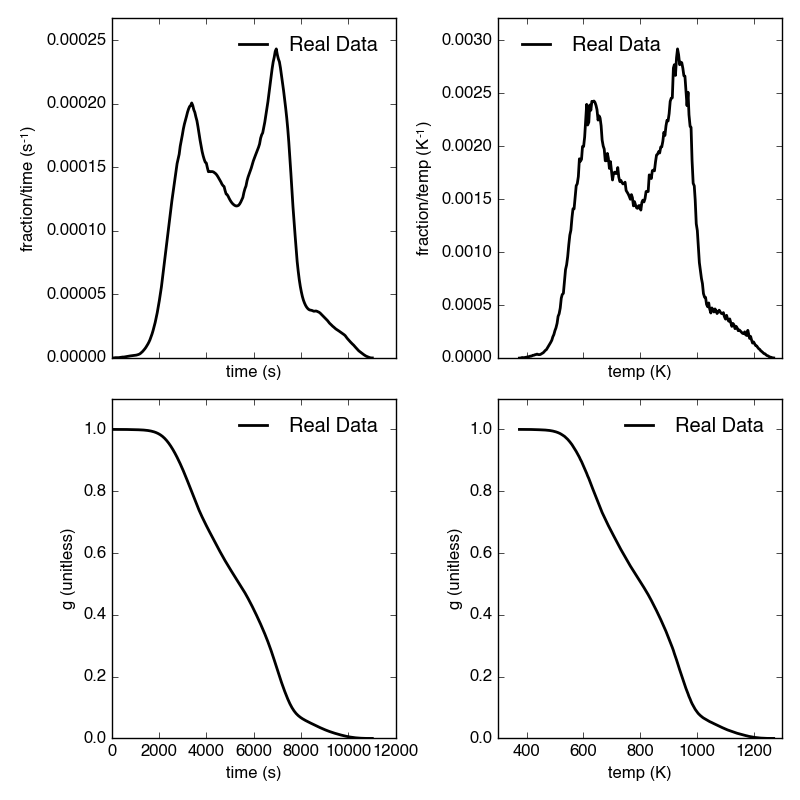
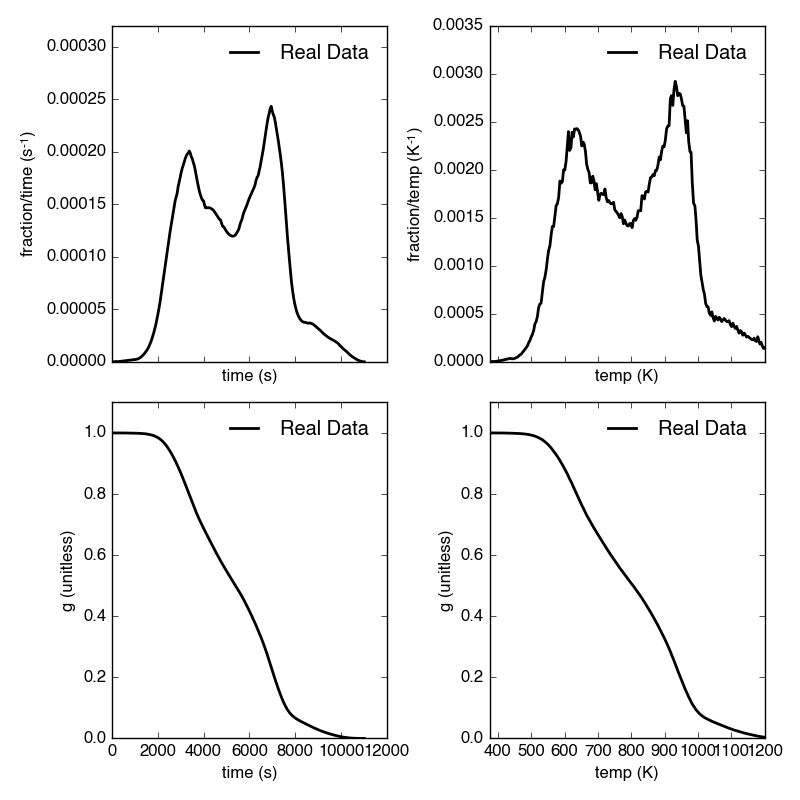
additional docstring updates

diff --git a/docs/walkthrough.rst b/docs/walkthrough.rst
@@ -126,7 +126,7 @@ Additionally, if you are new to the Python environment or programming using the 
 
 * `Spyder <https://github.com/spyder-ide/spyder>`_
 
-Python IDEs provide a "MATLAB-like" environment and package management. This option should look familiar for users coming from a MATLAB or RStudio background.
+Python IDEs provide a "MATLAB-like" environment as well as package management. This option should look familiar for users coming from a MATLAB or RStudio background.
 
 Getting data in the right format
 --------------------------------
@@ -169,7 +169,7 @@ If you are importing isotope data, this package requires that the file is in `.c
 |11:58:23 AM  |     2    | 105.81  | -29.0  |   0.1    | 0.7945 |  0.0022  |
 +-------------+----------+---------+--------+----------+--------+----------+
 
-Here, the `ug_frac` column is composed of manometrically determined masses rather than those determined by the infrared gas analyzer (IRGA, *i.e.* photometric). As such, the mass RMSE value determined by the fitting procedure (see `Determining peak isotope composition`_ below) is a metric of the discrepancy between photometric and manometric mass measurements in addition to that between the peak-fitted and true thermograms.
+Here, the `ug_frac` column is composed of manometrically determined masses rather than those determined by the infrared gas analyzer (IRGA, *i.e.* photometric). As such, the mass RMSE value determined by the fitting procedure (see `Determining component isotope composition`_ below) is a metric of the discrepancy between photometric and manometric mass measurements in addition to that between the peak-fitted and true thermograms.
 
 **Important:** The `date_time` value for fraction '-1' must be the same as the `date_time` value for the first row in the `all_data` thermogram file **and** the value for fraction '0' must the initial time when trapping for fraction 1 began.
 
@@ -180,7 +180,7 @@ Once the file is in this format, generate a string pointing to it in python like
 
 Making a TimeData instance (the Thermogram)
 -------------------------------------------
-Once the `all_data` string been defined, you are ready to import the package and generate an ``rp.RpoThermogram`` instance containing the thermogram data. ``rp.RpoThermogram`` is a subclass of ``rp.TimeData`` -- broadly speaking, this handles any object that contains measured time-series data. It is important to keep in mind that your thermogram will be down-sampled to `nt` points in order to smooth out high-frequency noise and to keep Laplace transform matrices to a manageable size for inversion (see `Generating the rate data distribution`_ below). Additionally, because the inversion model is sensitive to boundary conditions at the beginning and end of the run (see `Deconvolving rate data into peaks`_ below), there is an option when generating the thermogram instance to ensure that the baseline has been subtracted, as well as options for inputting measurement uncertainty (time data uncertainty is currently unused as of v.0.0.2)::
+Once the `all_data` string been defined, you are ready to import the package and generate an ``rp.RpoThermogram`` instance containing the thermogram data. ``rp.RpoThermogram`` is a subclass of ``rp.TimeData`` -- broadly speaking, this handles any object that contains measured time-series data. It is important to keep in mind that your thermogram will be down-sampled to `nt` points in order to smooth out high-frequency noise and to keep Laplace transform matrices to a manageable size for inversion (see `Setting-up the model`_ below). Additionally, because the inversion model is sensitive to boundary conditions at the beginning and end of the run (see `Deconvolving rate data into peaks`_ below), there is an option when generating the thermogram instance to ensure that the baseline has been subtracted, as well as options for inputting measurement uncertainty (time data uncertainty is currently unused as of v.0.0.2)::
 
 	#load modules
 	import rampedpyrox as rp
@@ -226,6 +226,10 @@ Plot the thermogram and the fraction of carbon remaining against temperature [3]
 		xaxis = 'temp',
 		yaxis = 'fraction')
 
+	#adjust the axes
+	ax[0, 0].set_ylim([0, 0.00032])
+	ax[0, 1].set_ylim([0, 0.0035])
+	ax[1, 1].set_xlim([375, 1200])
 
 	plt.tight_layout()
 
@@ -233,8 +237,8 @@ Resulting plots look like this:
 
 |realdata|
 
-Generating the rate data distribution
--------------------------------------
+Setting-up the model
+--------------------
 
 The Laplace transform
 ~~~~~~~~~~~~~~~~~~~~~
@@ -279,135 +283,139 @@ value of 0.448:
 
 |lcurve|
 
-**Important:** Best-fit `omega` values generated by the L-curve method typically under-regularize f(Ea) when used for Ramped PyrOx isotope deconvolution. That is, f(Ea) distributions will contain more peaks than can be resolved using the ~5-7 CO\ :sub:`2`\  fractions typically collected during a Ramped PyrOx run. This can be partially addressed by combining peaks when deconvolving the rate data (see `Deconvolving rate data into peaks`_ below) [9]_. 
+**Important:** Best-fit `omega` values generated by the L-curve method typically under-regularize f(Ea) when used for Ramped PyrOx isotope deconvolution. That is, f(Ea) distributions will contain more peaks than can be resolved using the ~5-7 CO\ :sub:`2`\  fractions typically collected during a Ramped PyrOx run. This can be partially addressed by combining peaks when deconvolving the rate data using the ``comine`` flag (see `Deconvolving rate data into peaks`_ below) [9]_.  Alternatively, you can increase the `omega` value (a value of ~1-5 will result in ~5-6 Gaussian peaks for most samples).
 
 
-
-peaks using the `combine_last` flag when creating an ``rp.EnergyComplex`` 
-instance (see `Generating and plotting f(Ea)`_ below), as this region 
-typically contains low isotope resolution. Alternatively, you can increase 
-`omega` (a value of ~1-5 will result in ~5-6 Gaussian peaks for most samples).
-
-
-Generating and plotting f(Ea)
-~~~~~~~~~~~~~~~~~~~~~~~~~~~~~
-After creating the ``rp.LaplaceTransform`` instance and deciding a value for 
-`omega`, you are ready to invert the thermogram data by executing the 
-``calc_EC_inv`` method from within the ``rp.LaplaceTransform`` instance. 
-Here, I'll show the results for ``omega='auto'`` as well as ``omega=3``::
-
-	#run the inverse model with omega = auto
-	phi_auto, resid_err_auto, rgh_err_auto, om_best = lt.calc_EC_inv(
-		rd, omega='auto')
-
-	#run the inverse model with omega = 3
-	phi_3, resid__err_3, rgh_err_3, _ = lt.calc_EC_inv(
-		rd, omega=3)
-
+Making a RateData instance (the inversion results)
+--------------------------------------------------
+After creating the ``rp.Daem`` instance and deciding on a value for `omega`, you are ready to invert the thermogram and generate an Activation Energy Complex (EC). An EC is a subclass of the more general ``rp.RateData`` instance which, broadly speaking, contains all rate and/or activation energy information. That is, the EC contains an estimate of the underlying Ea distribution, f(Ea), that is intrinsic to a particular sample for a particular degradation experiment type (*e.g.* combustion, pyrolysis, enzymatic degradation, etc.). A fundamental facet of this model is the realization that each distribution is composed of a sum of individual peaks, each with unique activation energies, isotope, and molecular compositions.
 
 Deconvolving rate data into peaks
----------------------------------
-The next step is to deconvolve the f(Ea) distribution into individual 
-Gaussian peaks. It is important to realize that, until now, the model has 
-made no assumptions about the shape of f(Ea) or the DAEM energy complexes 
-that it consists of. The fact that the regularized f(Ea) resembles a sum of 
-Gaussian peaks appears to be a fundamental property of complex organic carbon 
-mixtures, as has been assumed before [10]_.
+~~~~~~~~~~~~~~~~~~~~~~~~~~~~~~~~~
+The next step is to deconvolve the inverse-modeled rate data distribution into individual peaks. It is important to realize that, until now, the model has made no assumptions about the shape of f(Ea) or the individual peaks that is comprises. The fact that the regularized f(Ea) resembles a sum of Gaussian peaks appears to be a fundamental property of complex organic carbon mixtures, as has been discussed before [10]_. 
 
-Generate an ``rp.EnergyComplex`` instance to perform the Gaussian 
-deconvolution and plot results. Here, I'll let ``nPeaks='auto'`` and 
-``thres=0.02`` to allow the model to automatically select peaks above 2\% of 
-the height of the tallest peak. Additionally I'll combine the last 2 peaks 
-and set ``DEa=0.0018`` (see `Kinetic Isotope Effect (KIE)`_ below for further 
-discussion on `DEa` [9]_)::
+Generating the ``up.EnergyComplex`` instance using the inverse model will automatically deconvolve f(Ea) into a sum of peaks. Here we can add user-inputted information for performing the deconvolution: 
 
-	#deconvolving phi generated with omega = auto
-	ec_auto = rp.EnergyComplex(eps, phi_auto,
-		nPeaks='auto',
-		thres=0.02,
-		combine_last=2,
-		DEa=0.0018)
+* the ``omega`` value used for regulariation (see `Regularizing the inversion`_ above).
 
-	#deconvolving phi generated with omega = 3
-	ec_3 = rp.EnergyComplex(eps, phi_3,
-		nPeaks='auto',
-		thres=0.02,
-		combine_last=2,
-		DEa=0.0018)
+* the shape of the underlying peaks, ``peak_shape`` (only 'Gaussian' is supported as of v.0.0.2).
 
-Plot the resulting deconvolved f(Ea)::
+* the number of peaks to retain by the model (``nPeaks``), either as an integer or 'auto'. Peaks are automatically detected according to the curvature of f(Ea) -- each unique concave-down region is assumed to contain a single peak. Peaks below the relative threshold cutoff, ``thres``, are ignored (*e.g.* for the below example, anything below 2% of the largest peak). A higher value of `omega` will lead to less detectable peaks.
+
+* which, if any, peaks to combine (``combined``). Sometimes the maximum number of peaks whose unique isotope composition can be determined is limited due to low sample resolution (see `Determining component isotope composition`_ below). Typically, this occurs when two or more peaks reside exclusively within a single isotope measurement region. (*e.g.* for the below example, the pairs 1 & 2 and 6 & 7 are combined) [9]_.
+
+Here I create two energy complexes, one with `omega` set to 'auto' and the other with `omega` set to 3, and perform the deconvolution by inverse modeling the above thermogram::
+
+	ec_auto = rp.EnergyComplex.inverse_model(
+		daem, 
+		tg,
+		combined = None,
+		nPeaks = 'auto',
+		omega = 'auto',
+		peak_shape = 'Gaussian',
+		thres = 0.02)
+
+	ec_3 = rp.EnergyComplex.inverse_model(
+		daem, 
+		tg,
+		combined = [(1,2), (6, 7)],
+		nPeaks = 'auto',
+		omega = 3,
+		peak_shape = 'Gaussian',
+		thres = 0.02)
+
+Plot the resulting deconvolved energy complex::
 
 	#make a figure
-	fig,ax = plt.subplots(1, 2, sharey = True)
+	fig,ax = plt.subplots(1, 2, 
+		figsize = (8,5),
+		sharey = True)
 
 	#plot results
-	ax[0] = ec_auto.plot(ax=ax[0])
-	ax[1] = ec_3.plot(ax=ax[1])
+	ax[0] = ec_auto.plot(ax = ax[0])
+	ax[1] = ec_3.plot(ax = ax[1])
 
 	ax[0].set_title("omega = 'auto'")
 	ax[1].set_title("omega = 3")
+
+	ax[0].set_ylim([0, 0.022])
 	plt.tight_layout()
 
 Resulting plots are shown side-by-side:
 
 |phis|
 
-Note that the number of 'Individual Fitted Gaussians' reported in the legend 
-is before the ``combine_last`` flag has been implemented. The last 2 peaks 
-are combined in the plot.
+Note that the number of peaks reported in the legend is before the ``combined`` flag has been implemented. The first and last 2 peaks are dhown combined in the `omega = 3` plot.
 
-A summary of the Gaussian peaks can be printed with the ``summary`` method::
+A summary of the peaks can be printed with the ``peak_info`` attribute and saved to a `.csv` file::
 
-	ec_3.summary()
+	ec_3.peak_info
+	ec_3.peak_info.to_csv('EC_peak_info_file.csv')
 
-Which will print a table similar to:
+This will print a table similar to:
 
-+------------------------------------------------------------+
-|Peak information for each deconvolved peak:                 |
-+============================================================+
-|NOTE: Combined peaks are reported separately in this table! |
-+-----+-------------+---------------+----------+-------------+
-|     | means (kJ)  |  stdev. (kJ)  |  height  |  rel. area  |
-+-----+-------------+---------------+----------+-------------+
-|  1  |  136.205501 |   8.575766    | 0.004625 |  0.099750   |
-+-----+-------------+---------------+----------+-------------+
-|  2  |  152.302553 |   7.628098    | 0.009002 |  0.172695   |
-+-----+-------------+---------------+----------+-------------+
-|  3  |  174.969866 |   10.273746   | 0.007160 |  0.184946   |
-+-----+-------------+---------------+----------+-------------+
-|  4  |  203.113455 |   9.232788    | 0.006471 |  0.150222   |
-+-----+-------------+---------------+----------+-------------+
-|  5  |  228.741877 |   8.167253    | 0.015281 |  0.313914   |
-+-----+-------------+---------------+----------+-------------+
-|  6  |  261.304757 |   6.178408    | 0.002498 |  0.038820   |
-+-----+-------------+---------------+----------+-------------+
-|  7  |  284.249535 |   11.393354   | 0.001384 |  0.039653   |
-+-----+-------------+---------------+----------+-------------+
-| Deconvolution RMSE = 4.59 x 10^-6                          |
-+------------------------------------------------------------+
++-------------------------------------------------------------+
+|Information for each deconvolved peak:                       |
++=====+=============+================+==========+=============+
+|     | mu (kJ/mol) | sigma (kJ/mol) |  height  |  rel. area  |
++-----+-------------+----------------+----------+-------------+
+|  1  |  134.36     |   7.75         | 3.87e-3  |  0.08       |
++-----+-------------+----------------+----------+-------------+
+|  2  |  151.81     |   8.62         | 9.95e-3  |  0.21       |
++-----+-------------+----------------+----------+-------------+
+|  3  |  175.25     |   9.46         | 6.99e-3  |  0.17       |
++-----+-------------+----------------+----------+-------------+
+|  4  |  202.60     |   9.96         | 6.43e-3  |  0.16       |
++-----+-------------+----------------+----------+-------------+
+|  5  |  228.73     |   8.29         | 1.54e-3  |  0.32       |
++-----+-------------+----------------+----------+-------------+
+|  6  |  262.32     |   6.18         | 2.41e-3  |  0.04       |
++-----+-------------+----------------+----------+-------------+
+|  7  |  282.85     |   7.89         | 1.32e-3  |  0.03       |
++-----+-------------+----------------+----------+-------------+
 
-Forward modeling estimated thermogram
-~~~~~~~~~~~~~~~~~~~~~~~~~~~~~~~~~~~~~
-Once the ``rp.EnergyComplex`` instance has been created, you can use the 
-``calc_TG_fwd`` method to forward model the estimated thermogram and store in 
-an ``rp.ModeledData`` instance. Here, I'll forward model the results from the 
-``omega = 3`` energy complex::
+Additionally, the deconvolution RMSE can be printed as a metric of the quality of the fit::
 
-	md = lt.calc_TG_fwd(ec_3)
+	print(ec_3.rmse)
 
-Similar to ``rp.RealData``, you can plot this thermogram against temperature 
-[3]_ or time, and can even overlay the true thermogram::
+Forward modeling the estimated thermogram
+~~~~~~~~~~~~~~~~~~~~~~~~~~~~~~~~~~~~~~~~~
+Once the ``rp.EnergyComplex`` instance has been created, you can forward-model the predicted thermogram and compare with measured data using the ``forward_model`` method of any ``rp.TimeData`` instance. Here, I'll forward model the results from the `omega = 3` energy complex::
 
+	tg.forward_model(daem, ec_3)
+
+The thermogram is now updated with modeled data and can be plotted::
+	
 	#make a figure
-	fig,ax = plt.subplots(1,2)
+	fig, ax = plt.subplots(2, 2, 
+		figsize = (8,8), 
+		sharex = 'col')
 
-	#plot modeled results
-	ax[0] = md.plot(ax=ax[0], xaxis='time')
-	ax[1] = md.plot(ax=ax[1], xaxis='temp')
+	#plot results
+	ax[0, 0] = tg.plot(
+		ax = ax[0, 0], 
+		xaxis = 'time',
+		yaxis = 'rate')
 
-	#overlay true thermogram
-	ax[0] = rd.plot(ax=ax[0], xaxis='time')
-	ax[1] = rd.plot(ax=ax[1], xaxis='temp')
+	ax[0, 1] = tg.plot(
+		ax = ax[0, 1], 
+		xaxis = 'temp',
+		yaxis = 'rate')
+
+	ax[1, 0] = tg.plot(
+		ax = ax[1, 0], 
+		xaxis = 'time',
+		yaxis = 'fraction')
+
+	ax[1, 1] = tg.plot(
+		ax = ax[1, 1], 
+		xaxis = 'temp',
+		yaxis = 'fraction')
+
+	#adjust the axes
+	ax[0, 0].set_ylim([0, 0.00032])
+	ax[0, 1].set_ylim([0, 0.0035])
+	ax[1, 1].set_xlim([375, 1200])
 
 	plt.tight_layout()
 
@@ -415,35 +423,38 @@ Resulting plot looks like this:
 
 |modeleddata|
 
-Similar to ``rp.EnergyComplex``, you can print a summary of the 
-``rp.ModeledData`` instance::
+Similar to ``rp.EnergyComplex``, you can print and save a summary of the components::
 
-	md.summary()
+	tg.cmpt_info
+	tg.peak_info.to_csv('tg_peak_info_file.csv')
 
 Which will print a table similar to:
 
-+------------------------------------------------------------+
-|max time, max temp, and rel. area for each deconvolved peak:|
-+============================================================+
-|NOTE: Combined peak results are represented as one in table!|
-+-----+--------------------+-------------------+-------------+
-|     |   time (seconds)   |   temp (Kelvin)   |  rel. area  |
-+-----+--------------------+-------------------+-------------+
-|  1  |      2582.658      |     571.285152    |   0.099844  |
-+-----+--------------------+-------------------+-------------+
-|  2  |      3333.174      |     633.601584    |   0.172858  |
-+-----+--------------------+-------------------+-------------+
-|  3  |      4392.726      |     721.286327    |   0.185120  |
-+-----+--------------------+-------------------+-------------+
-|  4  |      5761.314      |     835.613286    |   0.150364  |
-+-----+--------------------+-------------------+-------------+
-|  5  |      7041.606      |     943.251295    |   0.314209  |
-+-----+--------------------+-------------------+-------------+
-|  6  |      8807.526      |    1089.759802    |   0.077605  |
-+-----+--------------------+-------------------+-------------+
++---------------------------------------------------------------------------------+
+|Information for each deconvolved component:                                      |
++=====+===========+===========+===================+===================+===========+
+|     | t max (s) | T max (K) | max rate (frac/s) | max rate (frac/K) | rel. area |
++-----+-----------+-----------+-------------------+-------------------+-----------+
+|  1  | 3200.73   | 622.70    | 1.82e-4           | 2.25e-3           | 0.29      |
++-----+-----------+-----------+-------------------+-------------------+-----------+
+|  2  | 4481.02   | 728.72    | 1.17e-4           | 1.36e-3           | 0.17      |
++-----+-----------+-----------+-------------------+-------------------+-----------+
+|  3  | 5717.17   | 832.23    | 1.05e-4           | 1.31e-3           | 0.16      |
++-----+-----------+-----------+-------------------+-------------------+-----------+
+|  4  | 7041.61   | 943.25    | 2.24e-4           | 2.66e-3           | 0.32      |
++-----+-----------+-----------+-------------------+-------------------+-----------+
+|  5  | 8807.53   | 1089.76   | 3.39e-5           | 4.01e-4           | 0.06      |
++-----+-----------+-----------+-------------------+-------------------+-----------+
 
-Determining peak isotope composition
-------------------------------------
+Similarly, the deconvolution RMSE can be printed as a metric of the quality of the fit::
+
+	print(tg.rmse)
+
+Predicting thermograms for other time-temperature histories
+~~~~~~~~~~~~~~~~~~~~~~~~~~~~~~~~~~~~~~~~~~~~~~~~~~~~~~~~~~~
+
+Determining component isotope composition
+-----------------------------------------
 At this point, the thermogram has been deconvolved into energy complexes 
 according to the DAEM and the isotope composition of each energy complex can 
 be determined using the `sum_data` file imported previously (see `Importing 
@@ -559,18 +570,18 @@ Saving the output
 
 .. [8] See Hansen (1994), *Numerical Algorithms*, **6**, 1-35 for a discussion on Tikhonov regularization.
 
-.. [9] Note: Throughout this package, deconvolved rate data peaks (*e.g.* Gaussians) are referred to as "peaks", while the forward-modeled components that make-up the thermogram are referred to as "components". This is due to the fact that multiple "peaks" can be combined into a single "component".
+.. [9] Note: Throughout this package, deconvolved rate data peaks are referred to as "peaks", while the forward-modeled components that make-up the thermogram are referred to as "components". This is due to the fact that multiple "peaks" can be combined into a single "component".
 
-.. [9] See Cramer, (2004), *Org. Geochem.*, **35**, 379-392 for a discussion 
+.. [10] See Cramer, (2004), *Org. Geochem.*, **35**, 379-392 for a discussion 
 	on the relationship between Gaussian Ea peak shape and organic carbon 
 	complexity, as well as the KIE.
 
-.. [10] Hemingway et al., (2016), *Radiocarbon*, **in prep** determine that a 
+.. [11] Hemingway et al., (2016), *Radiocarbon*, **in prep** determine that a 
 	DEa value of 1.8J/mol best explains the NOSAMS Ramped PyrOx stable-carbon 
 	isotope KIE, in addition to determining the blank carbon contribution for 
 	this instrument.
 
-.. [11] Stuiver and Polach (1977), *Radiocarbon*, **19(3)**, 355-363 is 
+.. [12] Stuiver and Polach (1977), *Radiocarbon*, **19(3)**, 355-363 is 
 	generally accepted as the standard reference on radiocarbon notation.
 
 
